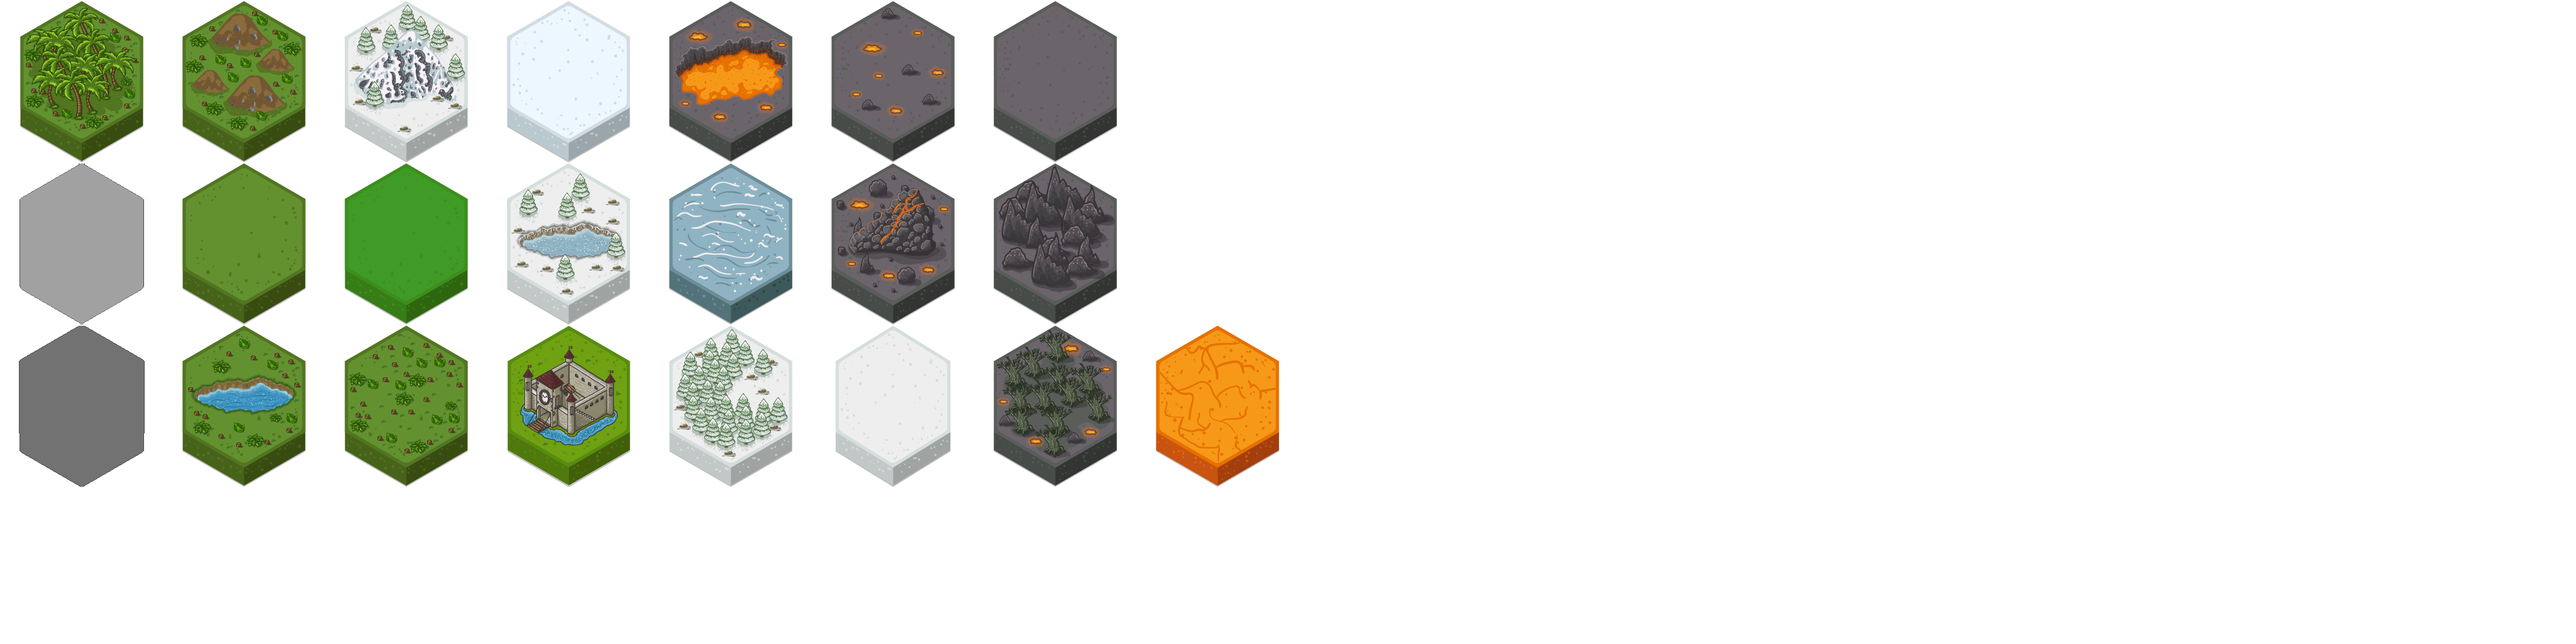
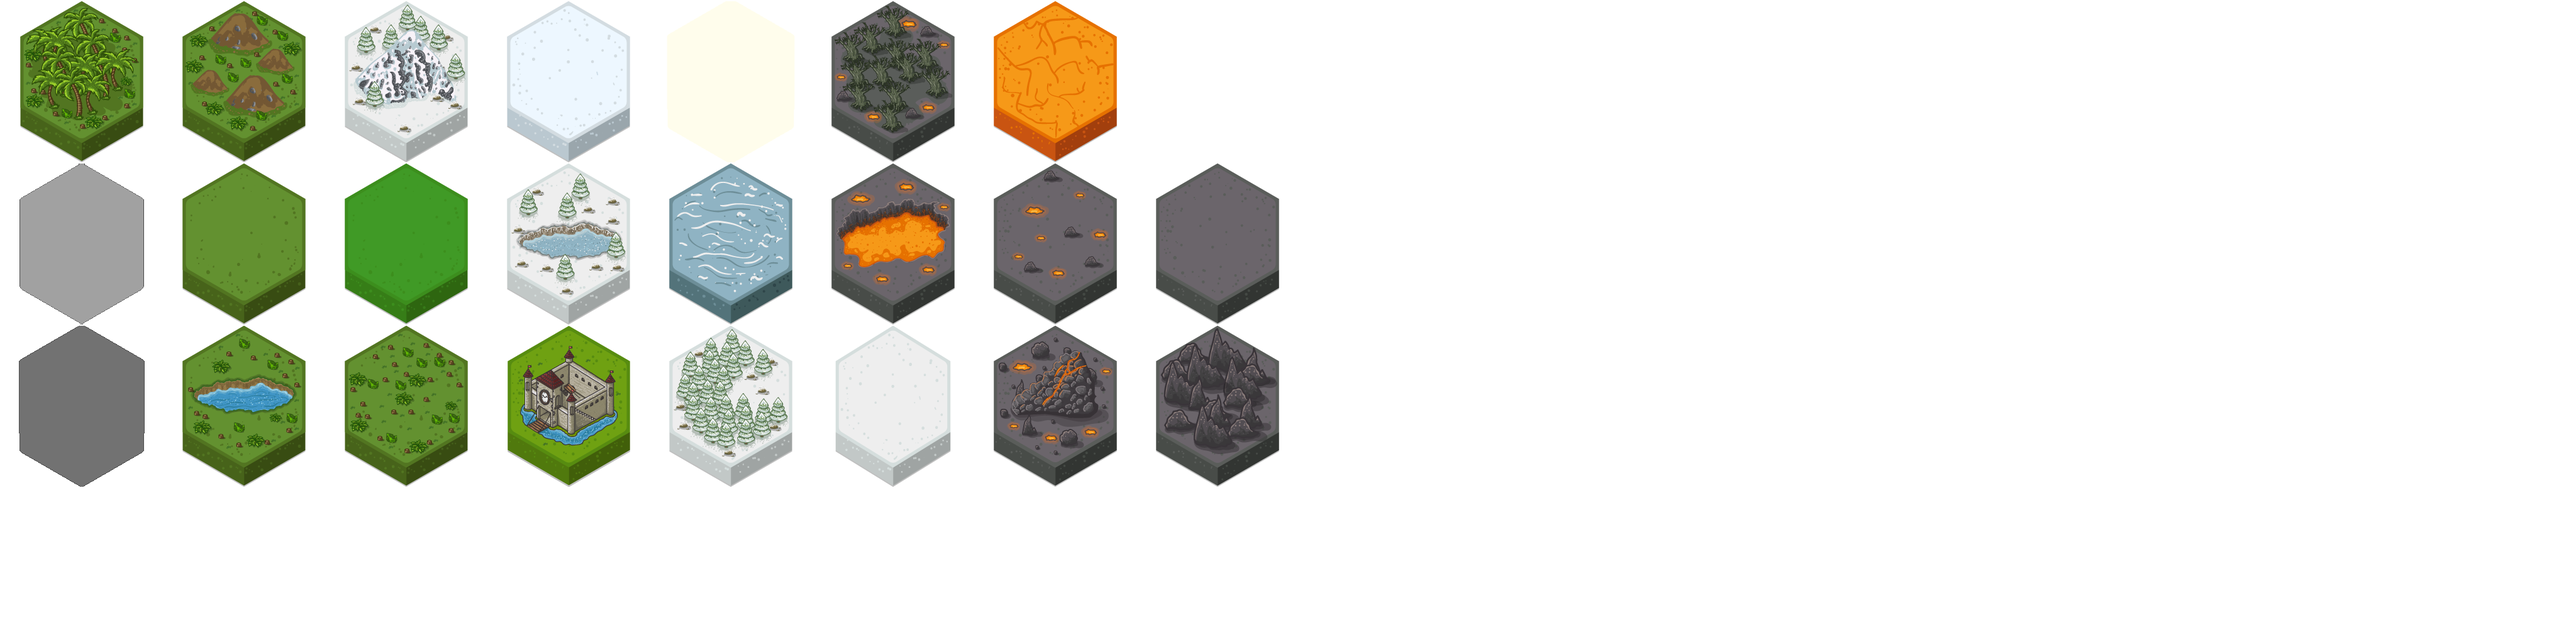
selected floor is added

Changed region(s): [[0.3125, 0.25, 0.5, 0.75], [0.25, 0.0, 0.4375, 0.25]]

diff --git a/WarofAges/core/src/com/uysals/game/warofages/screens/loading/LoadingScreen.java b/WarofAges/core/src/com/uysals/game/warofages/screens/loading/LoadingScreen.java
@@ -1,5 +1,6 @@
 package com.uysals.game.warofages.screens.loading;
 
+import com.badlogic.gdx.Game;
 import com.badlogic.gdx.ScreenAdapter;
 import com.badlogic.gdx.assets.AssetManager;
 import com.badlogic.gdx.graphics.OrthographicCamera;
@@ -77,6 +78,7 @@ public class LoadingScreen extends ScreenAdapter {
         if(assetManager.update()) {
             GameConfig.disabledFloor = assetManager.get(AssetDescriptors.FLOORS).findRegion("disabledFloor");
             GameConfig.disabledFloor2 = assetManager.get(AssetDescriptors.FLOORS).findRegion("disabledFloor2");
+            GameConfig.selectedFloor = assetManager.get(AssetDescriptors.FLOORS).findRegion("selectedFloor");
 
             GameConfig.textureRegions = new ArrayList<TextureRegion>();
             GameConfig.textureRegions.add(assetManager.get(AssetDescriptors.FLOORS).findRegion("greencastle"));

diff --git a/WarofAges/core/src/com/uysals/game/warofages/objects/Floor.java b/WarofAges/core/src/com/uysals/game/warofages/objects/Floor.java
@@ -9,12 +9,14 @@ public class Floor {
     public float yCoor;
     public int isDisabled;
     public int region;
+    public boolean isSelected;
 
     public Floor(float xCoor, float yCoor, int isDisabled, int region) {
         this.xCoor = xCoor;
         this.yCoor = yCoor;
         this.isDisabled = isDisabled;
         this.region = region;
+        this.isSelected = false;
     }
 
     public void draw(SpriteBatch batch) {
@@ -23,6 +25,9 @@ public class Floor {
             batch.draw(GameConfig.disabledFloor, xCoor - 128f, yCoor - 128f);
         } else if(isDisabled == 2) {
             batch.draw(GameConfig.disabledFloor2, xCoor - 128f, yCoor - 128f);
+        }
+        if(isSelected){
+            batch.draw(GameConfig.selectedFloor, xCoor -128f, yCoor - 128f);
         }
     }
 }

diff --git a/WarofAges/core/src/com/uysals/game/warofages/screens/mainpage/MainPageController.java b/WarofAges/core/src/com/uysals/game/warofages/screens/mainpage/MainPageController.java
@@ -88,11 +88,15 @@ public class MainPageController implements GestureDetector.GestureListener {
 
     @Override
     public boolean tap(float x, float y, int count, int button) {
+        if(selectedFloor != -1){
+            floors.get(selectedFloor).isSelected = false;
+        }
         selectedFloor = -1;
         Vector2 worldTouch = viewport.unproject(new Vector2(x, y));
         for(int i = 0; i < floors.size(); i++) {
             if(distance(worldTouch, new Vector2(floors.get(i).xCoor, floors.get(i).yCoor)) < 186f) {
                 selectedFloor = i;
+                floors.get(i).isSelected = true;
                 System.out.println(i);
                 break;
             }

diff --git a/WarofAges/core/src/com/uysals/game/warofages/GameConfig.java b/WarofAges/core/src/com/uysals/game/warofages/GameConfig.java
@@ -19,6 +19,7 @@ public class GameConfig {
 
     public static TextureRegion disabledFloor = null;
     public static TextureRegion disabledFloor2 = null;
+    public static TextureRegion selectedFloor = null;
 
     public static ArrayList<TextureRegion> textureRegions;
 }
